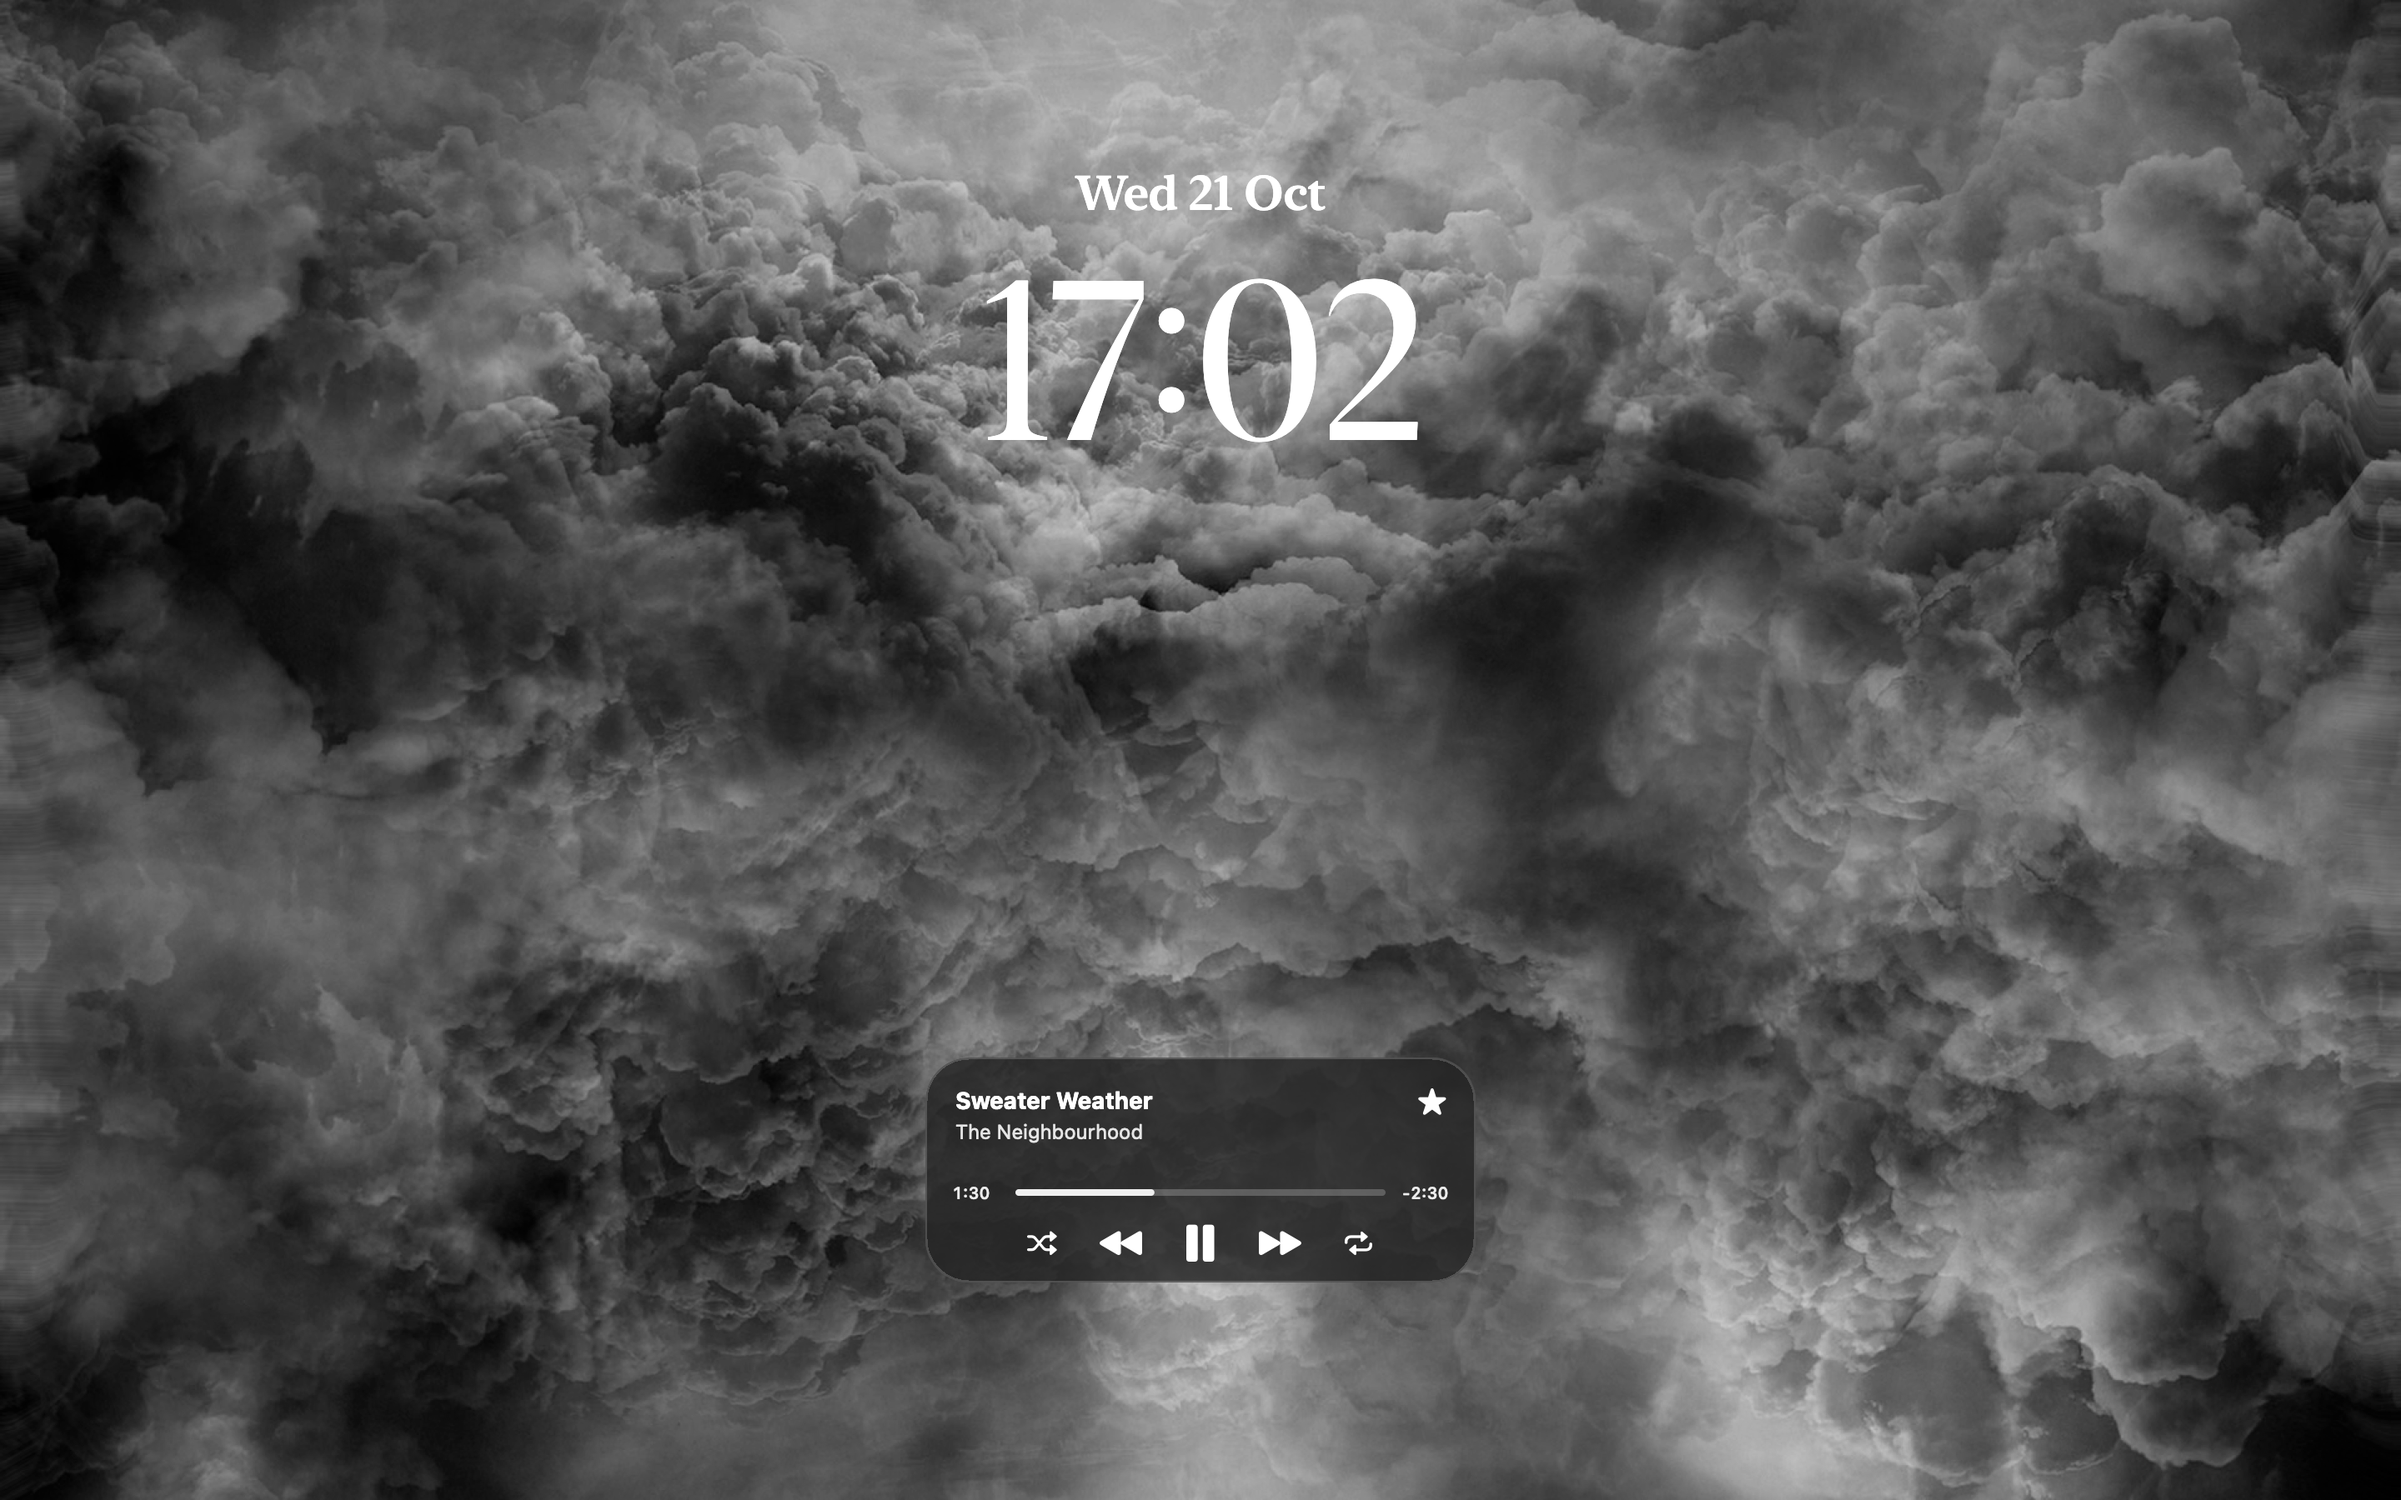
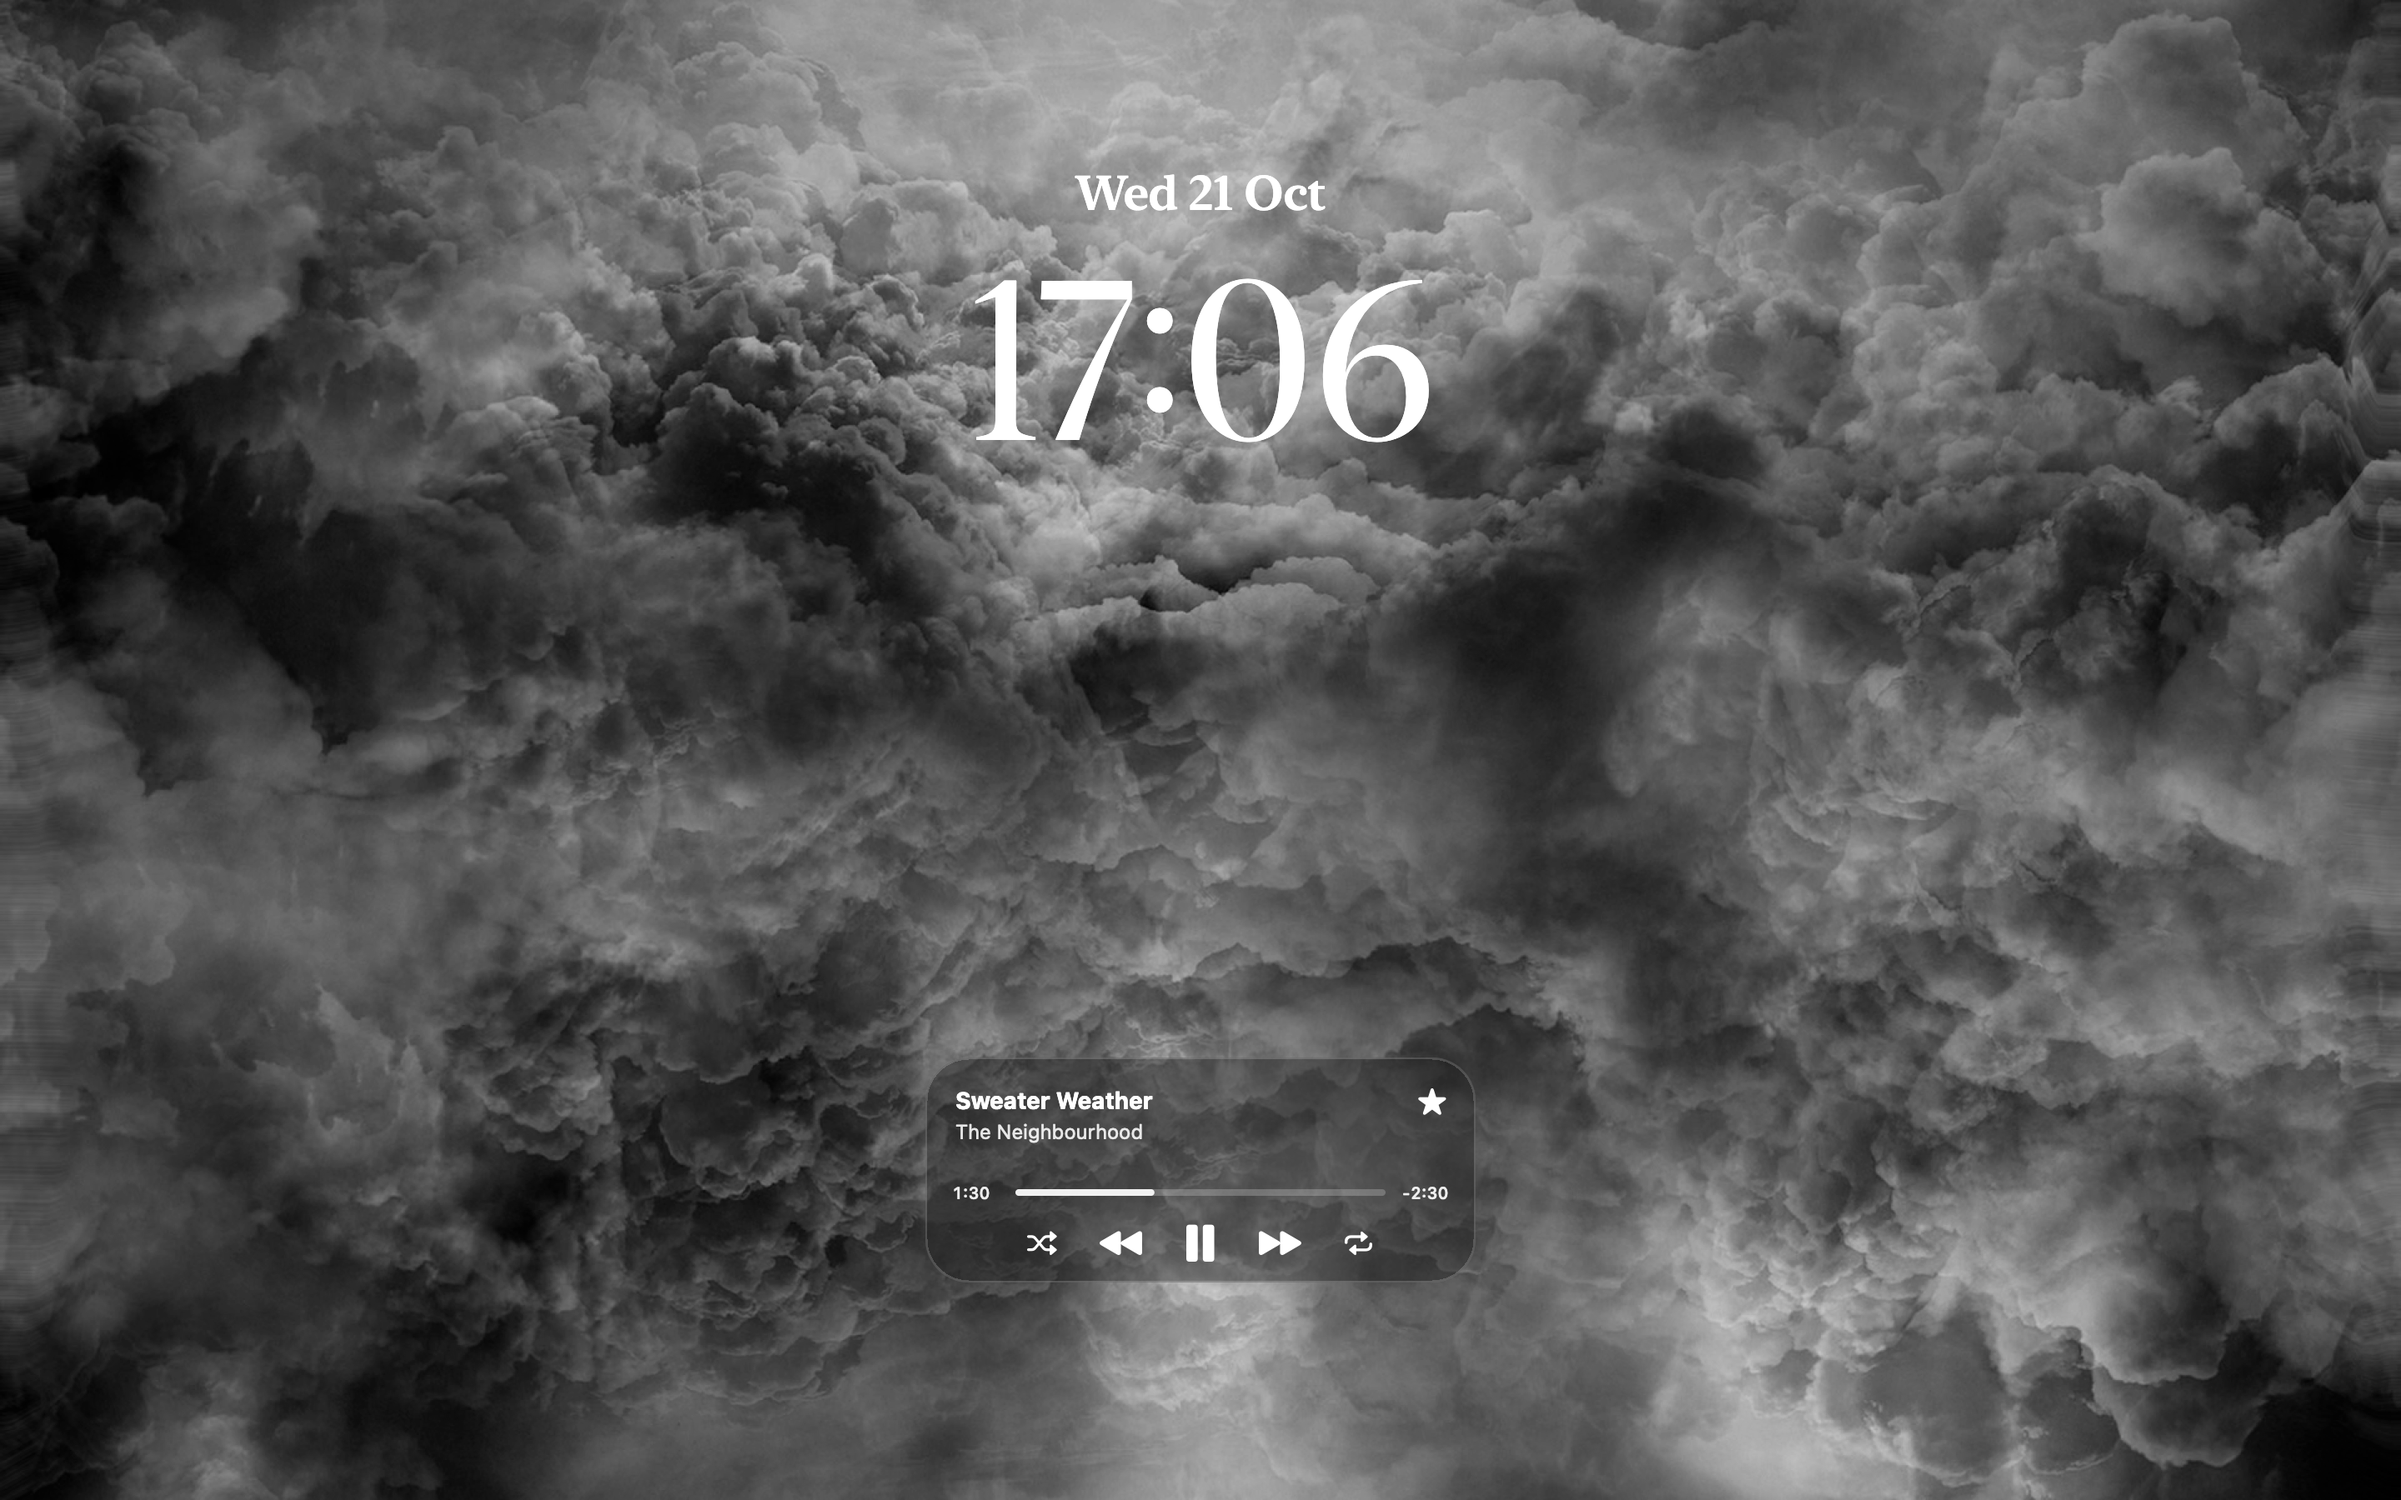
See-through lock screen glass; moving-artwork lock screen in the preview image

Changed region(s): [[0.375, 0.6844, 0.5938, 0.8711], [0.4062, 0.1867, 0.5938, 0.3111]]

diff --git a/Sources/Demo.swift b/Sources/Demo.swift
@@ -53,6 +53,10 @@ enum Demo {
         save(render(strip(paused, width: 560, menus: false).background(Color(white: 0.08)).environment(\.colorScheme, .dark)), dir.appendingPathComponent("menubar-paused.png"))
         save(render(popover(playing).environment(\.colorScheme, .dark)), dir.appendingPathComponent("popover.png"))
 
+        let lockMoving: NSImage? = {
+            guard let lock, let lockArt = lockArtPath.flatMap({ NSImage(contentsOfFile: $0) }), let still = lockMotionPath.flatMap({ NSImage(contentsOfFile: $0) }) else { return nil }
+            return renderLock(MediaController(demo: lock, artwork: lockArt), fullscreen: true, motionStill: still)
+        }()
         let hero = ZStack(alignment: .top) {
             LinearGradient(colors: [Color(red: 0.18, green: 0.08, blue: 0.35), Color(red: 0.03, green: 0.03, blue: 0.08)],
                            startPoint: .topLeading, endPoint: .bottomTrailing)
@@ -70,9 +74,21 @@ enum Demo {
                             }
                         }
                     }
-                    .frame(width: 600, alignment: .leading)
+                    .frame(width: 590, alignment: .leading)
                     Spacer(minLength: 0)
-                    popover(playing).padding(.trailing, -10)
+                    if let lockMoving {
+                        // the lock screen with moving artwork, with the popover overlapping its corner
+                        ZStack(alignment: .bottomLeading) {
+                            Image(nsImage: lockMoving).resizable().aspectRatio(contentMode: .fit).frame(width: 600)
+                                .clipShape(RoundedRectangle(cornerRadius: 18, style: .continuous))
+                                .overlay(RoundedRectangle(cornerRadius: 18, style: .continuous).strokeBorder(.white.opacity(0.18)))
+                                .shadow(color: .black.opacity(0.5), radius: 24, y: 10)
+                            popover(playing).scaleEffect(0.78, anchor: .bottomLeading).offset(x: -70, y: 40)
+                        }
+                        .padding(.trailing, -20)
+                    } else {
+                        popover(playing).padding(.trailing, -10)
+                    }
                 }
                 .padding(.horizontal, 60)
                 .frame(maxHeight: .infinity)

diff --git a/Sources/LockScreen.swift b/Sources/LockScreen.swift
@@ -278,12 +278,12 @@ final class LockCardView: NSView {
         glass.layer?.masksToBounds = true
         tint.frame = bounds
         tint.wantsLayer = true
-        tint.layer?.backgroundColor = NSColor.black.withAlphaComponent(0.28).cgColor
+        tint.layer?.backgroundColor = NSColor.black.withAlphaComponent(0.14).cgColor
         tint.layer?.cornerRadius = 26
         if #available(macOS 26.0, *) {
             let g = NSGlassEffectView(frame: bounds)
             g.cornerRadius = 26
-            g.style = .regular
+            g.style = .clear   // the clearer glass: you see the wallpaper through the card
             if #available(macOS 27.0, *) { g.effectIsInteractive = true }
             liquid = g
         }
@@ -363,7 +363,7 @@ final class LockCardView: NSView {
         glass.isHidden = true
         liquid?.isHidden = true
         tint.isHidden = false
-        tint.layer?.backgroundColor = NSColor(white: 0.14, alpha: 0.82).cgColor
+        tint.layer?.backgroundColor = NSColor(white: 0.10, alpha: 0.42).cgColor   // see-through, like the glass
         layer?.borderWidth = 1
     }
 
